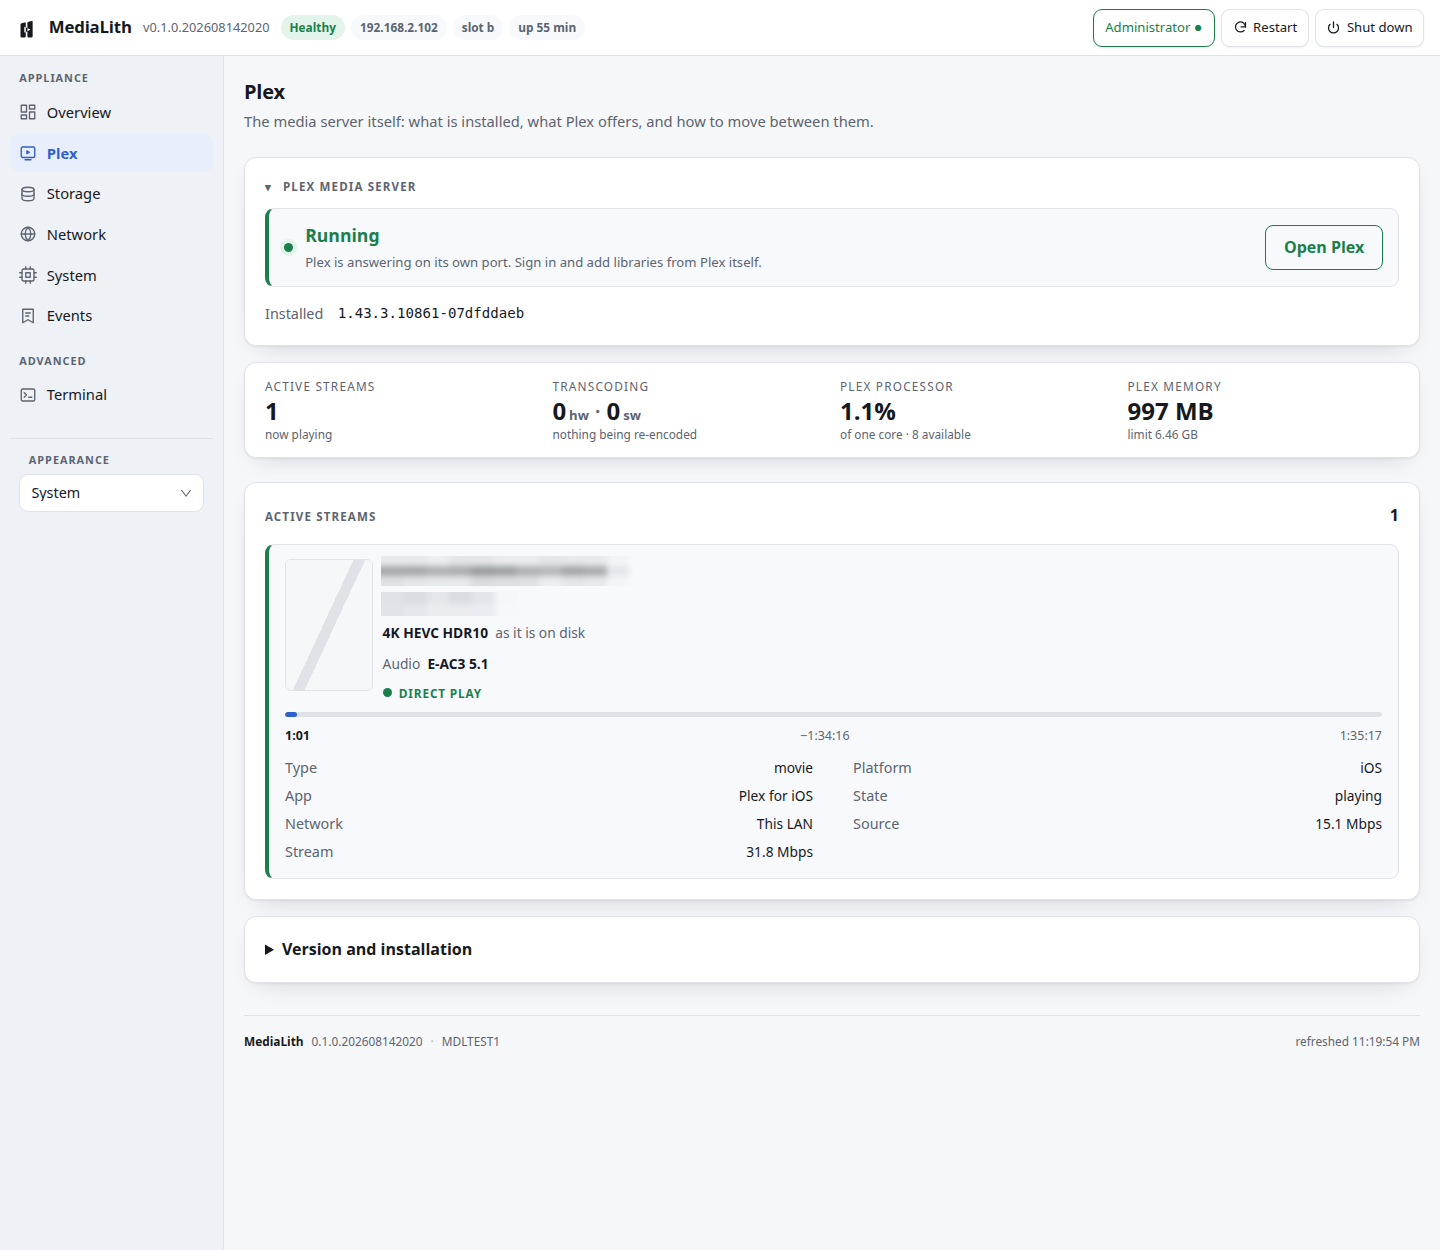
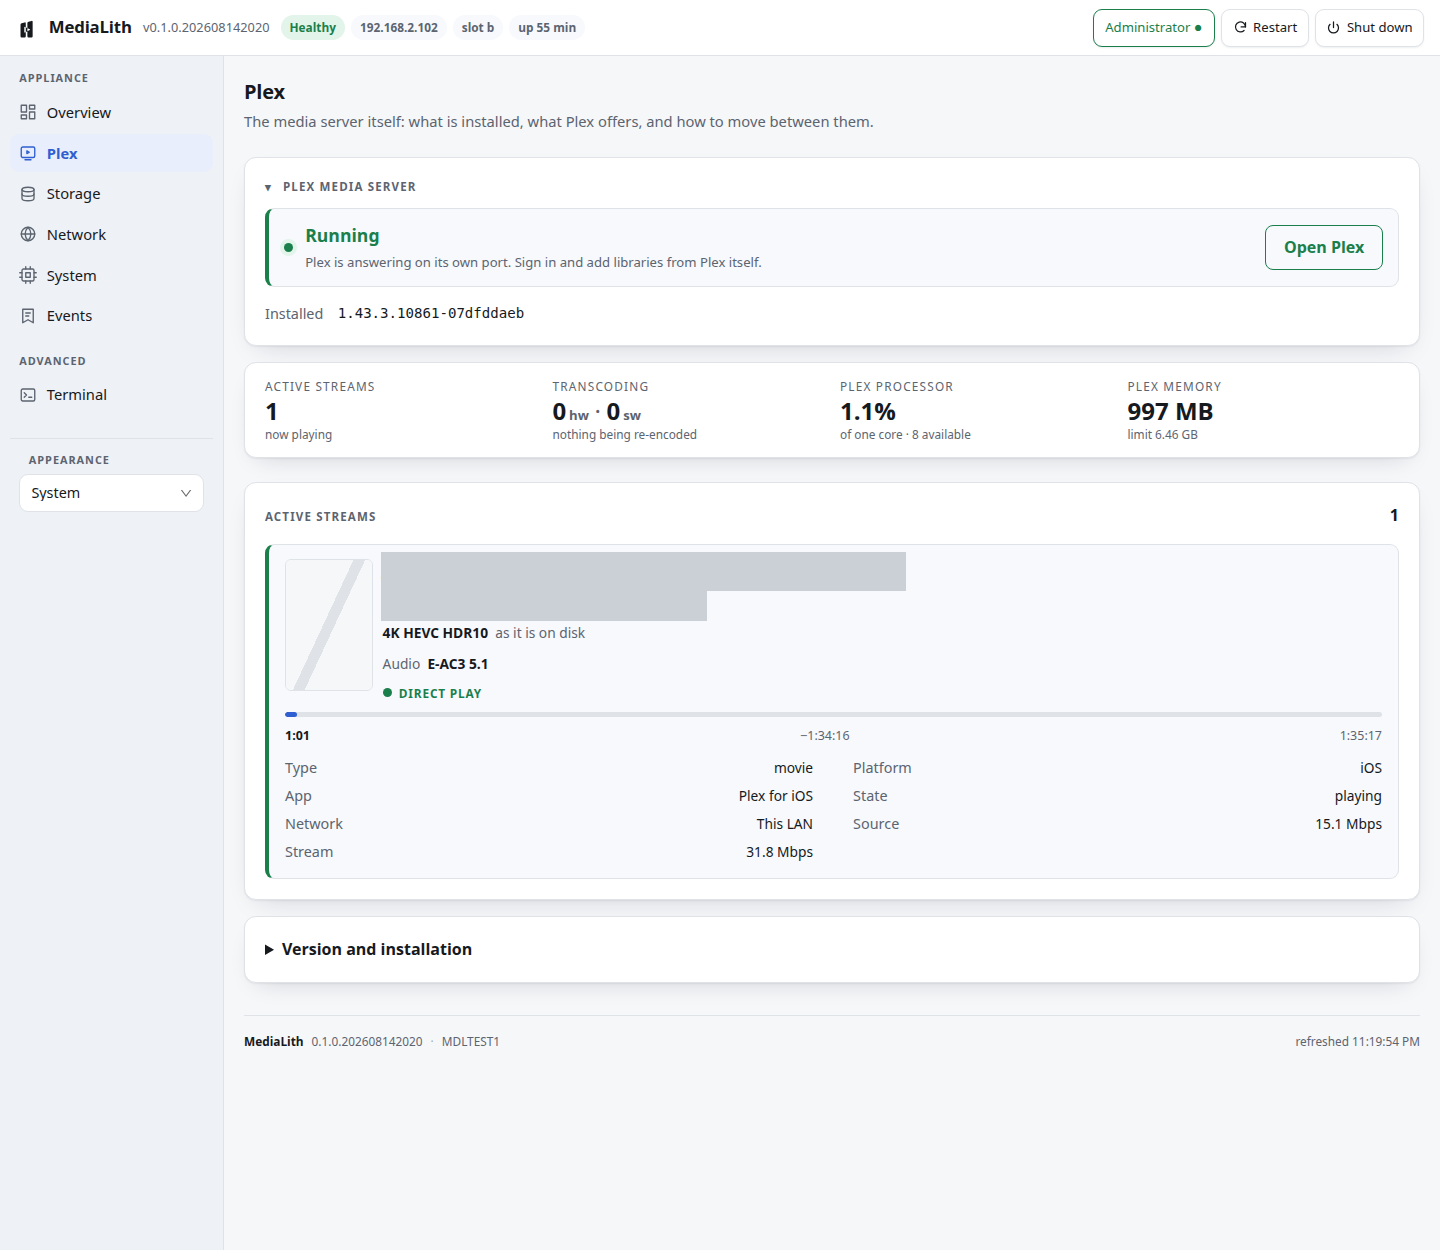
Prove which source built the image, not that the checkout is tidy
The release tool checked `git status` and called that provenance. It is not.
A clean checkout says the *tree* is tidy; it says nothing about which source
produced the image sitting in output-generic/, and the two come apart the
moment an output tree outlives the commit that filled it. A stale image
packaged against a newer commit would have passed every check and named a
commit that never produced those bytes.

So post-image.sh writes MEDIALITH_COMMIT and MEDIALITH_SOURCE_STATE into
os-release, in the stage that runs before the /usr image is built — which
puts them inside the erofs dm-verity covers, where the image cannot disagree
with itself. make-preview-release.sh extracts os-release back out of the
built image and requires four things to agree: a commit is recorded, it was
built from a clean tree, that commit is HEAD, and the tree is still clean.

Tried against the image on disk, which predates the field, and it refuses —
naming the reason and the rebuild that fixes it. Stage 0b asserts the field
is written, so a build that stops writing it fails loudly rather than
silently disarming the check.

Six corrections to the preview material, all of them things that were wrong
rather than merely improvable:

  * The notes said there are no loadable modules. CONFIG_MODULES=y with
    signature enforcement, for NVIDIA. What is true is that the boot path is
    built in, and that is what it says now.
  * The README said the appliance "updates itself without anybody present",
[…]

Changed region(s): [[0.25, 0.4368, 0.6562, 0.4992]]

diff --git a/README.md b/README.md
@@ -13,8 +13,10 @@
 </p>
 
 > **Technical Preview.** It boots, installs itself, provisions Plex, transcodes 4K HDR on
-> the GPU and updates itself without anybody present. It has run on four machines. Try it
-> on a spare box — not on the only copy of anything you care about.
+> the GPU, and supports signed A/B updates with automatic rollback. It has run on four
+> machines. **There is no update service yet** — a preview is updated from a bundle by
+> hand, and the appliance never goes looking on its own. Try it on a spare box, not on the
+> only copy of anything you care about.
 
 ![The MediaLith console](docs/screenshots/overview.png)
 
@@ -31,7 +33,7 @@ MediaLith is a whole system built around not doing that.
 | **Write it and boot it** | One image. No distribution to install, no packages to choose |
 | **Plex from a browser** | Downloaded from Plex's own endpoint, its signature checked against a pinned key, started confined — cgroup v2, Landlock, uid 900 |
 | **Hardware transcoding, or a reason** | Every diagnostic names a remedy. A report that says "unavailable" and stops has reproduced the problem this project exists to fix |
-| **Updates that undo themselves** | Two slots. A bad update boots three times, fails a health gate, and hands the machine back with nobody at it |
+| **Updates that undo themselves** | Two slots and a signed manifest. A bad update boots three times, fails a health gate, and hands the machine back with nobody at it. Applied by hand in the preview — there is no update service yet |
 | **Films where they already are** | The Windows partition of the machine's own disk, or a USB drive. Mounted read-only, browsed from the console |
 | **Sealed** | `/usr` is a read-only image verified by dm-verity on every boot, and its root hash lives inside a signed kernel image |
 
@@ -47,18 +49,48 @@ MediaLith is a whole system built around not doing that.
 The shortest path from this page to a running appliance. Nothing is built and nothing is
 installed on the computer's own disks unless you ask for it.
 
-1. **Download** the image from [Releases](../../releases/latest), and check it:
-   `sha256sum -c SHA256SUMS`
+1. **Download** the image and `SHA256SUMS` from [Releases](../../releases/latest), and
+   check what you got: `sha256sum -c SHA256SUMS` on Linux, `shasum -a 256 -c SHA256SUMS`
+   on macOS.
 2. **Decompress** it: `xz -d MediaLith-*.img.xz`
 3. **Write it to a USB stick.** ⚠ **This erases the stick completely, partition table and
-   all.** It is the whole disk, never a partition — `/dev/sdb`, not `/dev/sdb1`.
-   - Linux / macOS: `sudo dd if=MediaLith-*.img of=/dev/sdX bs=4M status=progress conv=fsync`
-   - Windows: [Rufus](https://rufus.ie) or [Balena Etcher](https://etcher.balena.io), and
-     pick the decompressed `.img`
+   all.** It is the whole disk, never a partition.
+
+   <details><summary><b>Linux</b></summary>
+
+   Find the device with `lsblk`, then — check the name twice, `dd` does not ask:
+
+   ```sh
+   sudo dd if=MediaLith-*.img of=/dev/sdX bs=4M status=progress conv=fsync
+   ```
+   </details>
+
+   <details><summary><b>macOS</b></summary>
+
+   `diskutil list` to find it, then unmount it — do not eject it, the device has to stay
+   present. `rdiskN` is the raw device and is many times faster than `diskN`. macOS `dd`
+   has no `status=progress`; press Ctrl-T to see where it is.
+
+   ```sh
+   diskutil list
+   diskutil unmountDisk /dev/diskN
+   sudo dd if=MediaLith-*.img of=/dev/rdiskN bs=4m
+   ```
+
+   [Balena Etcher](https://etcher.balena.io) does the same thing with a dialog.
+   </details>
+
+   <details><summary><b>Windows</b></summary>
+
+   [Rufus](https://rufus.ie) or [Balena Etcher](https://etcher.balena.io). Pick the
+   decompressed `.img` and write it in DD mode.
+   </details>
 4. **Turn Secure Boot off** in the machine's firmware, and boot the stick in **UEFI** mode.
 5. **Read the screen.** MediaLith prints its own address and a code to sign in with.
 
-   ![The screen on the machine itself](docs/screenshots/console-first-boot.png)
+   ![The MediaLith console on the machine's own screen, captured in QEMU](docs/screenshots/console-first-boot.png)
+
+   *Captured in a virtual machine, which is why it reports no hardware transcoding.*
 
 6. **Open that address** in a browser on the same network. Press **P** at the machine for a
    QR code that signs a phone in, or type the recovery code it printed.
@@ -71,7 +103,9 @@ see [docs/DEVELOPMENT.md](docs/DEVELOPMENT.md).
 
 ## What it looks like
 
-Every screenshot here is the current build on a real machine. Nothing is mocked up.
+The web console shots are the current build on real hardware. The first-boot console
+below is a QEMU capture and is labelled as one — the physical console is a text console on
+`tty1` and there is no way to photograph it from here. Nothing anywhere is mocked up.
 
 | | |
 | --- | --- |
